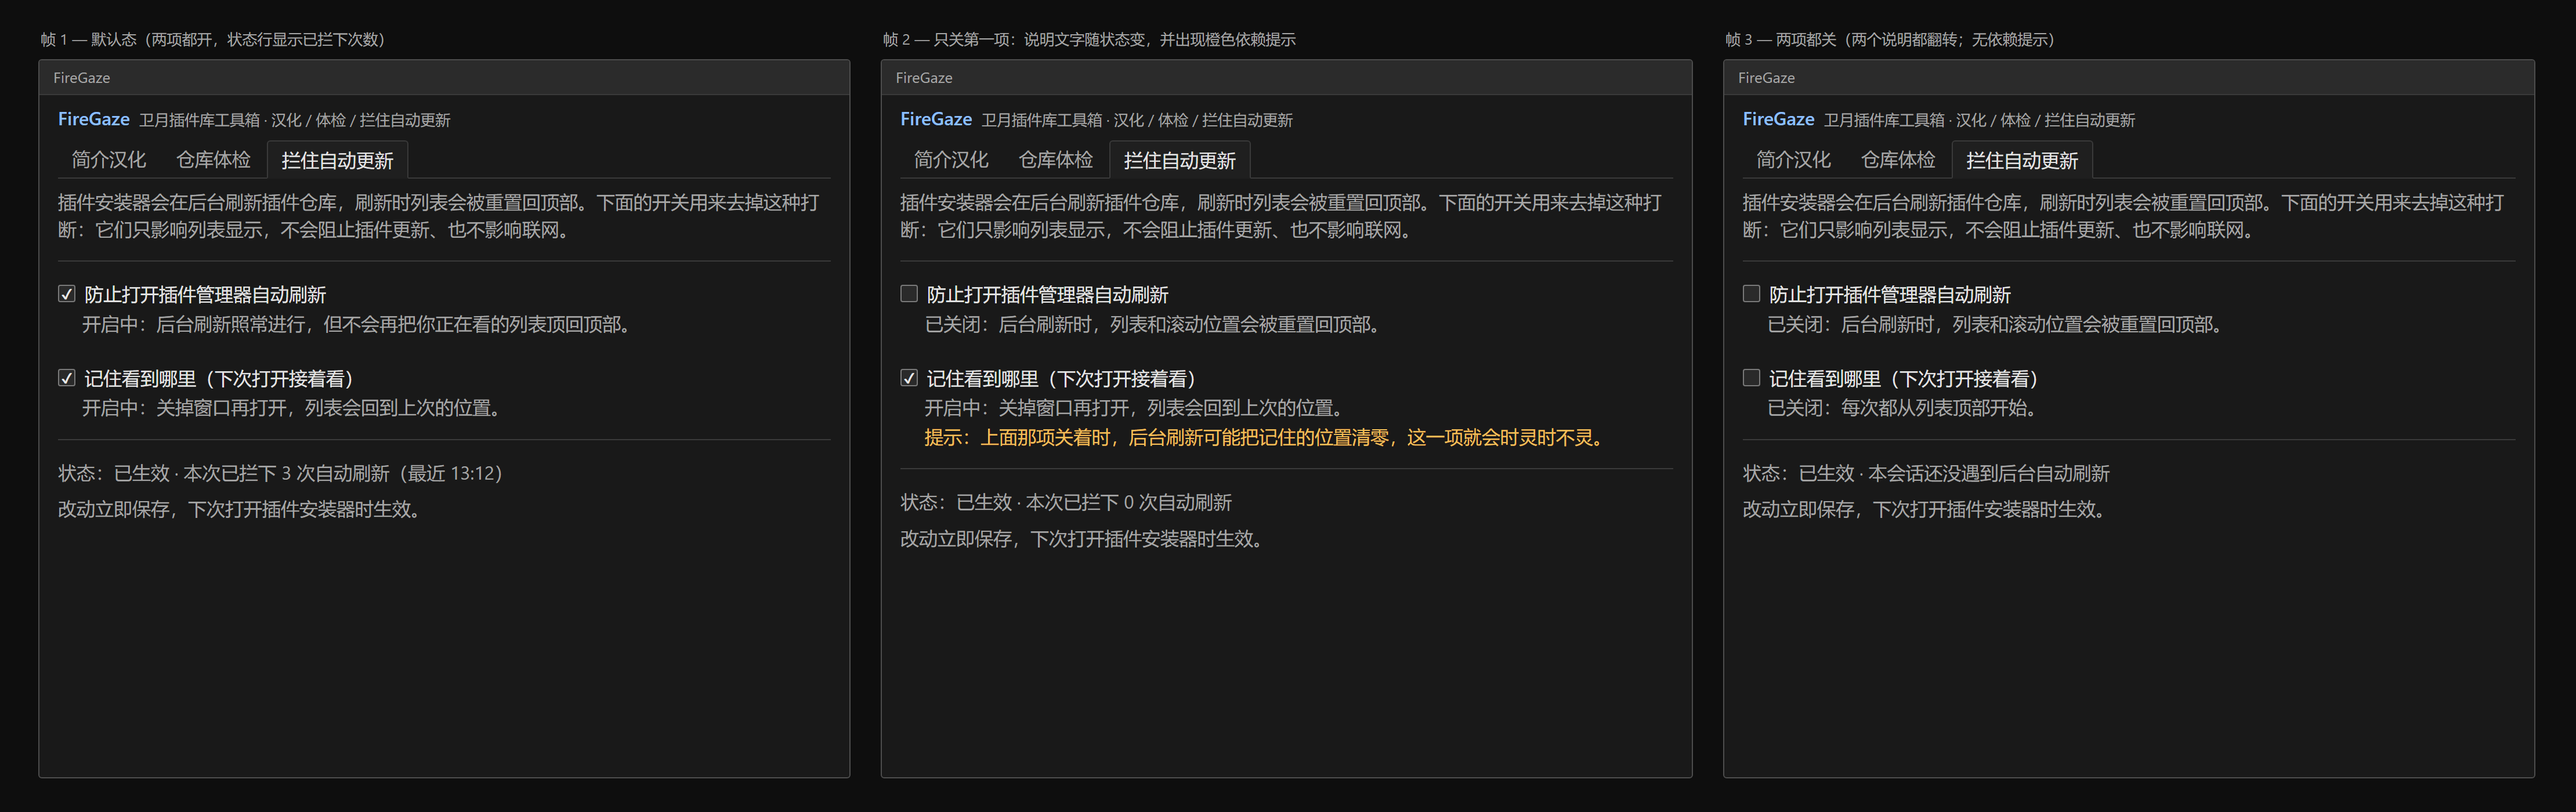
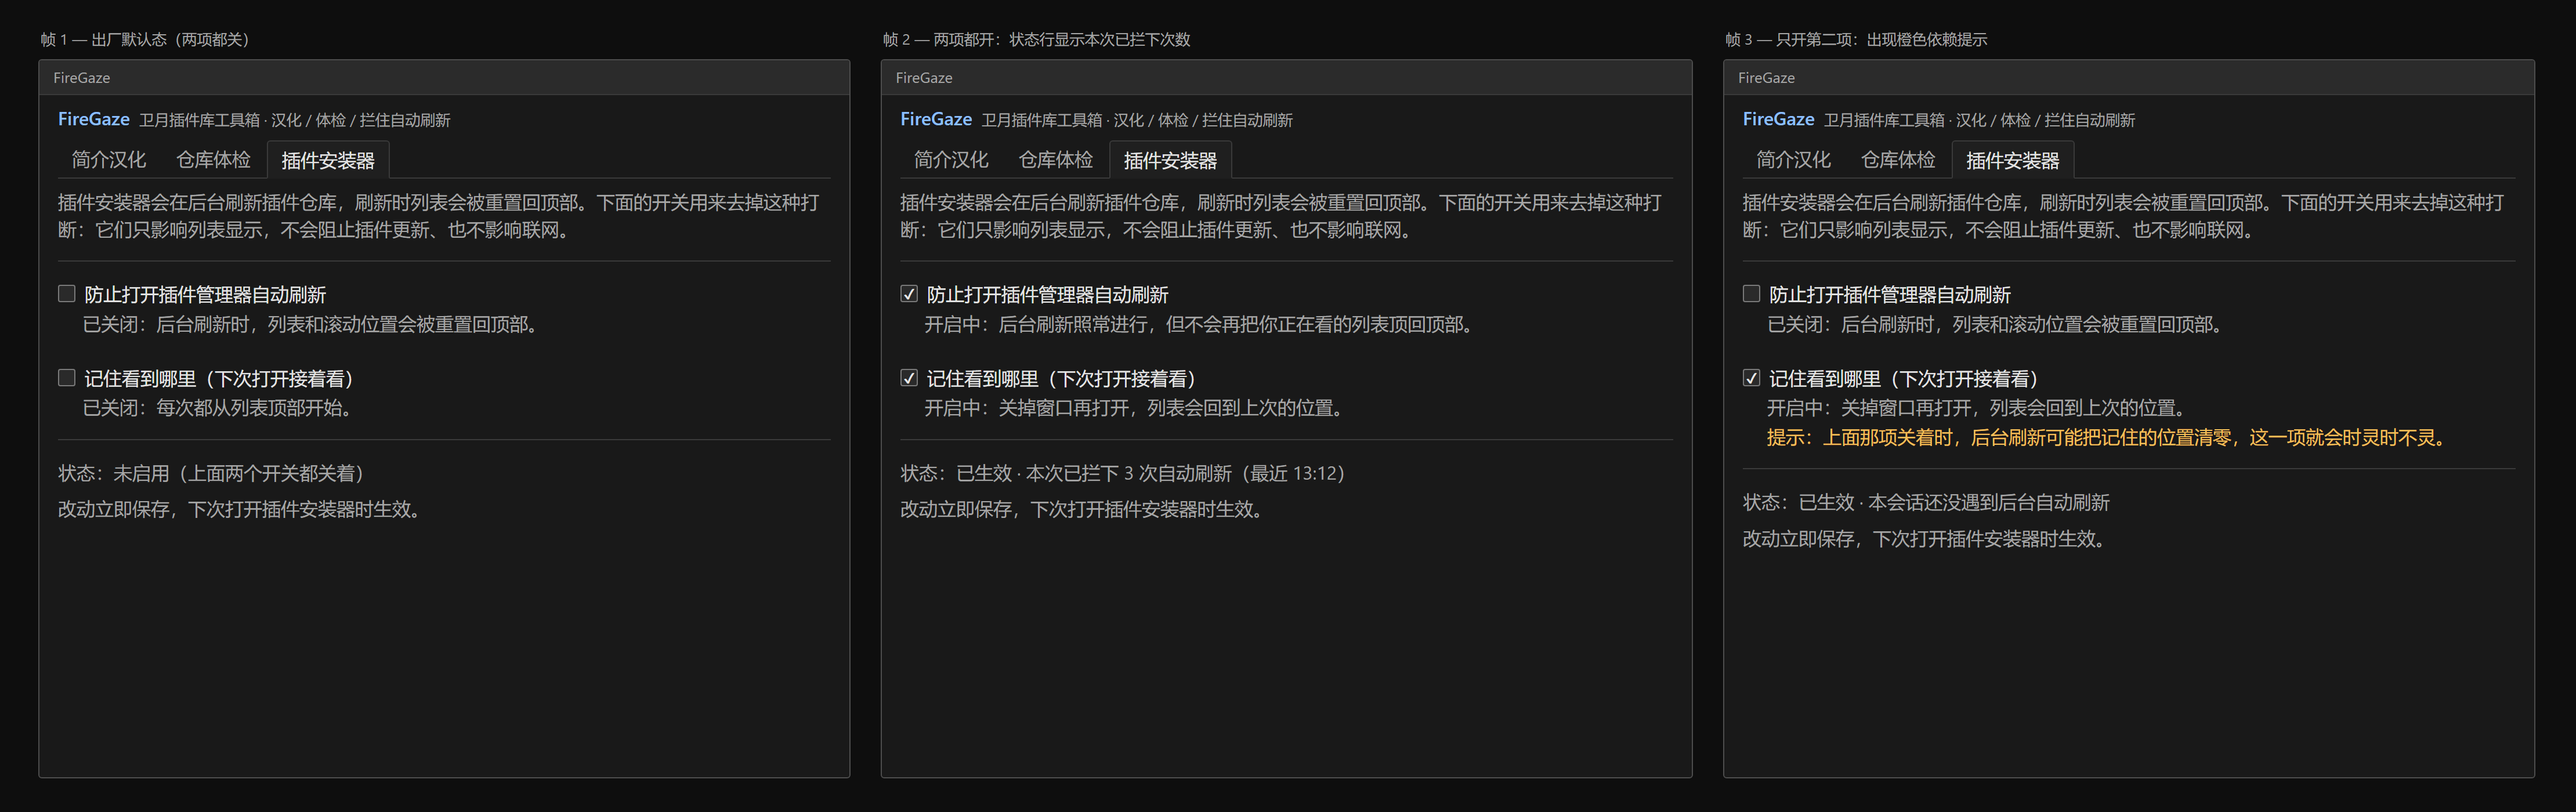
按用户决定改：副标题第三项「拦住自动更新」→「拦住自动刷新」、页签→「插件安装器」；两项功能默认关闭（Config Version 3 迁移把已有配置也置为关）；插件简介去掉「记住浏览位置」；状态行在两项都关时显示「未启用」；还原图同步重画（默认态=两项都关）；1.0.0.38（未推送）

diff --git a/Resources/ui-mockup-autorefresh-tab.html b/Resources/ui-mockup-autorefresh-tab.html
@@ -2,7 +2,7 @@
 <html lang="zh-CN">
 <head>
 <meta charset="utf-8">
-<title>FireGaze 「拦住自动更新」页 — 3 状态帧 mockup</title>
+<title>FireGaze 「插件安装器」页 — 3 状态帧 mockup</title>
 <style>
   /* 视觉语言：ImGui 深色主题（中性色打底 + 单一强调色 --accent），8pt 网格，层级靠字号/明度。
      参数按实现还原：窗口 700×620（最小 560×440）、灰字用 UiHelpers.Muted、说明行相对开关缩进。 */
@@ -45,12 +45,37 @@
 <div class="stage">
 
   <div>
-    <p class="caption">帧 1 — 默认态（两项都开，状态行显示已拦下次数）</p>
+    <p class="caption">帧 1 — 出厂默认态（两项都关）</p>
     <div class="window">
       <div class="osbar">FireGaze</div>
       <div class="body">
-        <div class="brandrow"><span class="brand">FireGaze</span><span class="sub">卫月插件库工具箱 · 汉化 / 体检 / 拦住自动更新</span></div>
-        <div class="tabs"><div class="tab">简介汉化</div><div class="tab">仓库体检</div><div class="tab active">拦住自动更新</div></div>
+        <div class="brandrow"><span class="brand">FireGaze</span><span class="sub">卫月插件库工具箱 · 汉化 / 体检 / 拦住自动刷新</span></div>
+        <div class="tabs"><div class="tab">简介汉化</div><div class="tab">仓库体检</div><div class="tab active">插件安装器</div></div>
+        <div class="hint">插件安装器会在后台刷新插件仓库，刷新时列表会被重置回顶部。下面的开关用来去掉这种打断：它们只影响列表显示，不会阻止插件更新、也不影响联网。</div>
+        <div class="sep"></div>
+        <div class="row">
+          <div class="chip"><span class="check"></span>防止打开插件管理器自动刷新</div>
+          <div class="hint indent">已关闭：后台刷新时，列表和滚动位置会被重置回顶部。</div>
+        </div>
+        <div style="height:8px"></div>
+        <div class="row">
+          <div class="chip"><span class="check"></span>记住看到哪里（下次打开接着看）</div>
+          <div class="hint indent">已关闭：每次都从列表顶部开始。</div>
+        </div>
+        <div class="sep" style="margin-top:8px"></div>
+        <div class="hint">状态：未启用（上面两个开关都关着）</div>
+        <div class="hint">改动立即保存，下次打开插件安装器时生效。</div>
+      </div>
+    </div>
+  </div>
+
+  <div>
+    <p class="caption">帧 2 — 两项都开：状态行显示本次已拦下次数</p>
+    <div class="window">
+      <div class="osbar">FireGaze</div>
+      <div class="body">
+        <div class="brandrow"><span class="brand">FireGaze</span><span class="sub">卫月插件库工具箱 · 汉化 / 体检 / 拦住自动刷新</span></div>
+        <div class="tabs"><div class="tab">简介汉化</div><div class="tab">仓库体检</div><div class="tab active">插件安装器</div></div>
         <div class="hint">插件安装器会在后台刷新插件仓库，刷新时列表会被重置回顶部。下面的开关用来去掉这种打断：它们只影响列表显示，不会阻止插件更新、也不影响联网。</div>
         <div class="sep"></div>
         <div class="row">
@@ -70,12 +95,12 @@
   </div>
 
   <div>
-    <p class="caption">帧 2 — 只关第一项：说明文字随状态变，并出现橙色依赖提示</p>
+    <p class="caption">帧 3 — 只开第二项：出现橙色依赖提示</p>
     <div class="window">
       <div class="osbar">FireGaze</div>
       <div class="body">
-        <div class="brandrow"><span class="brand">FireGaze</span><span class="sub">卫月插件库工具箱 · 汉化 / 体检 / 拦住自动更新</span></div>
-        <div class="tabs"><div class="tab">简介汉化</div><div class="tab">仓库体检</div><div class="tab active">拦住自动更新</div></div>
+        <div class="brandrow"><span class="brand">FireGaze</span><span class="sub">卫月插件库工具箱 · 汉化 / 体检 / 拦住自动刷新</span></div>
+        <div class="tabs"><div class="tab">简介汉化</div><div class="tab">仓库体检</div><div class="tab active">插件安装器</div></div>
         <div class="hint">插件安装器会在后台刷新插件仓库，刷新时列表会被重置回顶部。下面的开关用来去掉这种打断：它们只影响列表显示，不会阻止插件更新、也不影响联网。</div>
         <div class="sep"></div>
         <div class="row">
@@ -87,31 +112,6 @@
           <div class="chip"><span class="check on"></span>记住看到哪里（下次打开接着看）</div>
           <div class="hint indent">开启中：关掉窗口再打开，列表会回到上次的位置。</div>
           <div class="warn indent">提示：上面那项关着时，后台刷新可能把记住的位置清零，这一项就会时灵时不灵。</div>
-        </div>
-        <div class="sep" style="margin-top:8px"></div>
-        <div class="hint">状态：已生效 · 本次已拦下 0 次自动刷新</div>
-        <div class="hint">改动立即保存，下次打开插件安装器时生效。</div>
-      </div>
-    </div>
-  </div>
-
-  <div>
-    <p class="caption">帧 3 — 两项都关（两个说明都翻转；无依赖提示）</p>
-    <div class="window">
-      <div class="osbar">FireGaze</div>
-      <div class="body">
-        <div class="brandrow"><span class="brand">FireGaze</span><span class="sub">卫月插件库工具箱 · 汉化 / 体检 / 拦住自动更新</span></div>
-        <div class="tabs"><div class="tab">简介汉化</div><div class="tab">仓库体检</div><div class="tab active">拦住自动更新</div></div>
-        <div class="hint">插件安装器会在后台刷新插件仓库，刷新时列表会被重置回顶部。下面的开关用来去掉这种打断：它们只影响列表显示，不会阻止插件更新、也不影响联网。</div>
-        <div class="sep"></div>
-        <div class="row">
-          <div class="chip"><span class="check"></span>防止打开插件管理器自动刷新</div>
-          <div class="hint indent">已关闭：后台刷新时，列表和滚动位置会被重置回顶部。</div>
-        </div>
-        <div style="height:8px"></div>
-        <div class="row">
-          <div class="chip"><span class="check"></span>记住看到哪里（下次打开接着看）</div>
-          <div class="hint indent">已关闭：每次都从列表顶部开始。</div>
         </div>
         <div class="sep" style="margin-top:8px"></div>
         <div class="hint">状态：已生效 · 本会话还没遇到后台自动刷新</div>

diff --git a/src/FireGaze/Configuration.cs b/src/FireGaze/Configuration.cs
@@ -54,14 +54,14 @@ public sealed class Configuration : IPluginConfiguration
 
     // ---------------- 插件安装器（位置记忆 + 拦住自动刷新） ----------------
 
-    /// <summary>是否记住插件安装器列表的浏览位置（下次打开接着看）。</summary>
-    public bool RememberListScroll { get; set; } = true;
+    /// <summary>是否记住插件安装器列表的浏览位置（下次打开接着看）。默认关，由用户自己打开。</summary>
+    public bool RememberListScroll { get; set; }
 
     /// <summary>上次离开时列表的滚动位置（像素）。</summary>
     public float? ListScrollY { get; set; }
 
-    /// <summary>防止打开插件管理器时自动刷新（刷新照常跑，只是不再把列表和位置顶掉）。</summary>
-    public bool BlockInstallerAutoRefresh { get; set; } = true;
+    /// <summary>防止打开插件管理器时自动刷新（刷新照常跑，只是不再把列表和位置顶掉）。默认关。</summary>
+    public bool BlockInstallerAutoRefresh { get; set; }
 
     // ---------------- 简介汉化 ----------------
 

diff --git a/src/FireGaze/UI/InstallerTab.cs b/src/FireGaze/UI/InstallerTab.cs
@@ -2,7 +2,7 @@ using Dalamud.Bindings.ImGui;
 
 namespace FireGaze.UI;
 
-/// <summary>「拦住自动更新」页：拦住安装器的自动刷新 + 记住列表浏览位置。</summary>
+/// <summary>「插件安装器」页：拦住安装器的自动刷新 + 记住列表浏览位置（两项都默认关）。</summary>
 internal sealed class InstallerTab
 {
     private readonly Plugin plugin;
@@ -61,7 +61,10 @@ internal sealed class InstallerTab
 
         ImGui.Spacing();
         ImGui.Separator();
-        UiHelpers.ColoredWrapped(UiHelpers.Muted, "状态：" + this.plugin.InstallerFeatures.StatusText());
+        var status = block || remember
+            ? this.plugin.InstallerFeatures.StatusText()
+            : "未启用（上面两个开关都关着）";
+        UiHelpers.ColoredWrapped(UiHelpers.Muted, "状态：" + status);
         UiHelpers.ColoredWrapped(UiHelpers.Muted, "改动立即保存，下次打开插件安装器时生效。");
     }
 }

diff --git a/src/FireGaze/UI/MainWindow.cs b/src/FireGaze/UI/MainWindow.cs
@@ -45,7 +45,7 @@ internal sealed class MainWindow : Window
         ImGui.TextUnformatted("FireGaze");
         ImGui.PopStyleColor();
         ImGui.SameLine();
-        ImGui.TextDisabled("卫月插件库工具箱 · 汉化 / 体检 / 拦住自动更新");
+        ImGui.TextDisabled("卫月插件库工具箱 · 汉化 / 体检 / 拦住自动刷新");
 
         ImGui.Separator();
 
@@ -66,7 +66,7 @@ internal sealed class MainWindow : Window
             }
 
             flags = this.pendingSelect == MainTab.Installer ? ImGuiTabItemFlags.SetSelected : ImGuiTabItemFlags.None;
-            if (ImGui.BeginTabItem("拦住自动更新", flags))
+            if (ImGui.BeginTabItem("插件安装器", flags))
             {
                 this.installerTab.Draw();
                 ImGui.EndTabItem();

diff --git a/src/FireGaze/Plugin.cs b/src/FireGaze/Plugin.cs
@@ -60,6 +60,16 @@ public sealed class Plugin : IDalamudPlugin
             pluginInterface.SavePluginConfig(this.Config);
         }
 
+        // 3.0：安装器那两项功能改为**默认关**（由用户自己打开）
+        if (this.Config.Version < 3)
+        {
+            this.Config.Version = 3;
+            this.Config.RememberListScroll = false;
+            this.Config.BlockInstallerAutoRefresh = false;
+            this.Config.ListScrollY = null;
+            pluginInterface.SavePluginConfig(this.Config);
+        }
+
         this.ConfigDirectory = pluginInterface.GetPluginConfigDirectory();
         Directory.CreateDirectory(this.ConfigDirectory);
 

diff --git a/README.md b/README.md
@@ -16,7 +16,7 @@
 基于 **卫月 (Dalamud)** 平台的 **最终幻想 14 (FF14)** 游戏插件
 Final Fantasy XIV Game Plugin Based On Dalamud.
 
-提供以下功能：第三方插件简介汉化，第三方插件仓库坏链检测，拦住插件安装器的自动刷新（并记住列表浏览位置）
+提供以下功能：第三方插件简介汉化，第三方插件仓库坏链检测，拦住插件安装器的自动刷新
 
 Provides: localization of third-party plugin descriptions; scanning of third-party plugin repositories; blocking automatic reloads while browsing plugin repositories.
 
